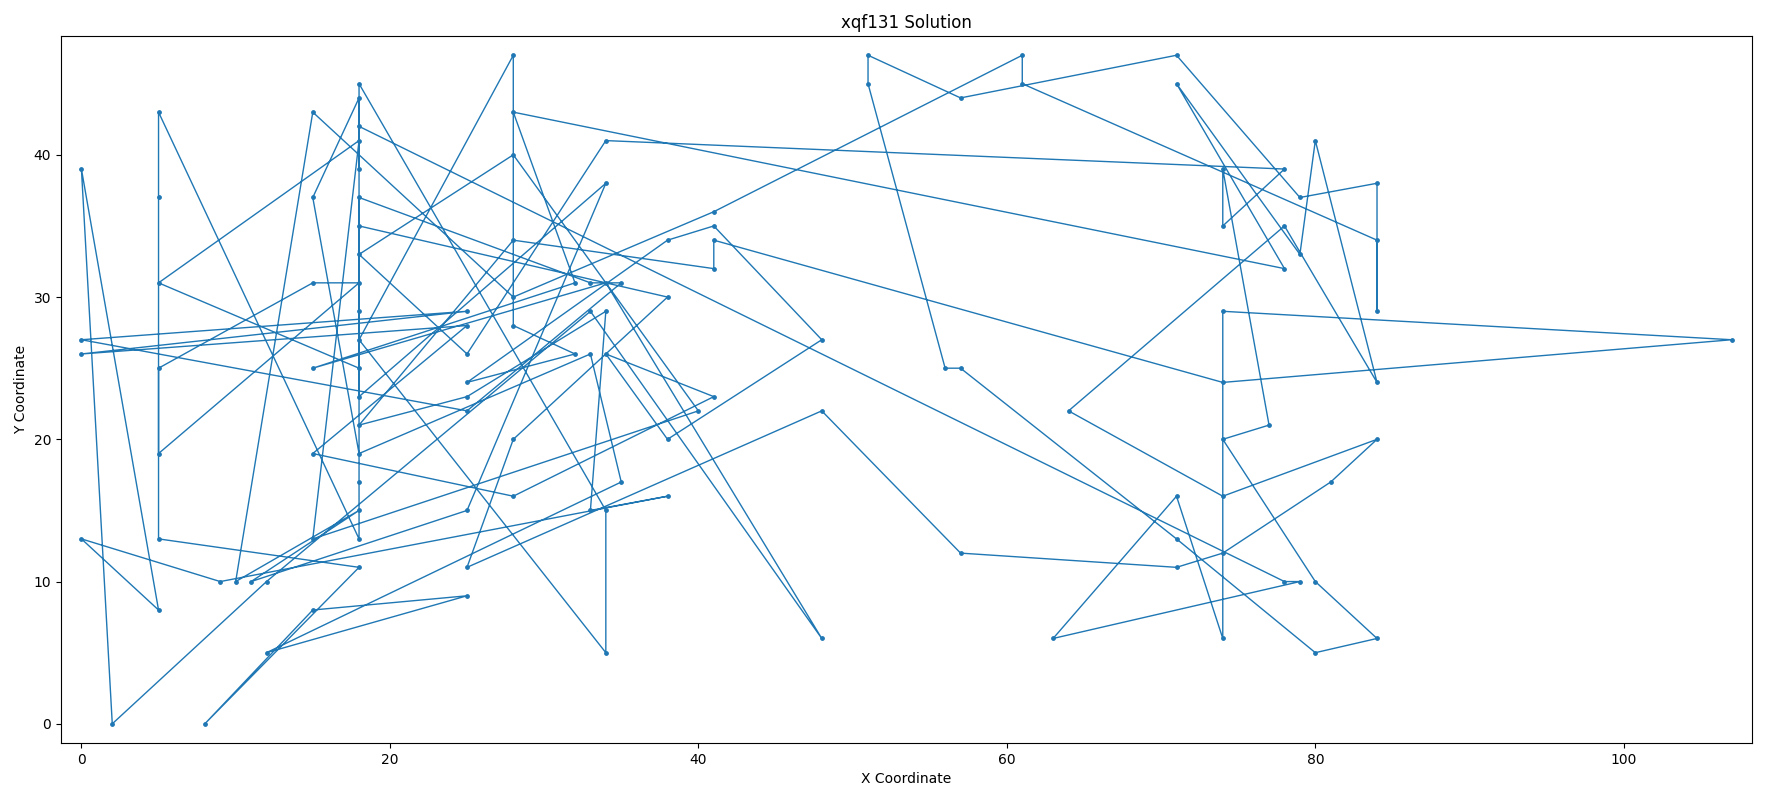
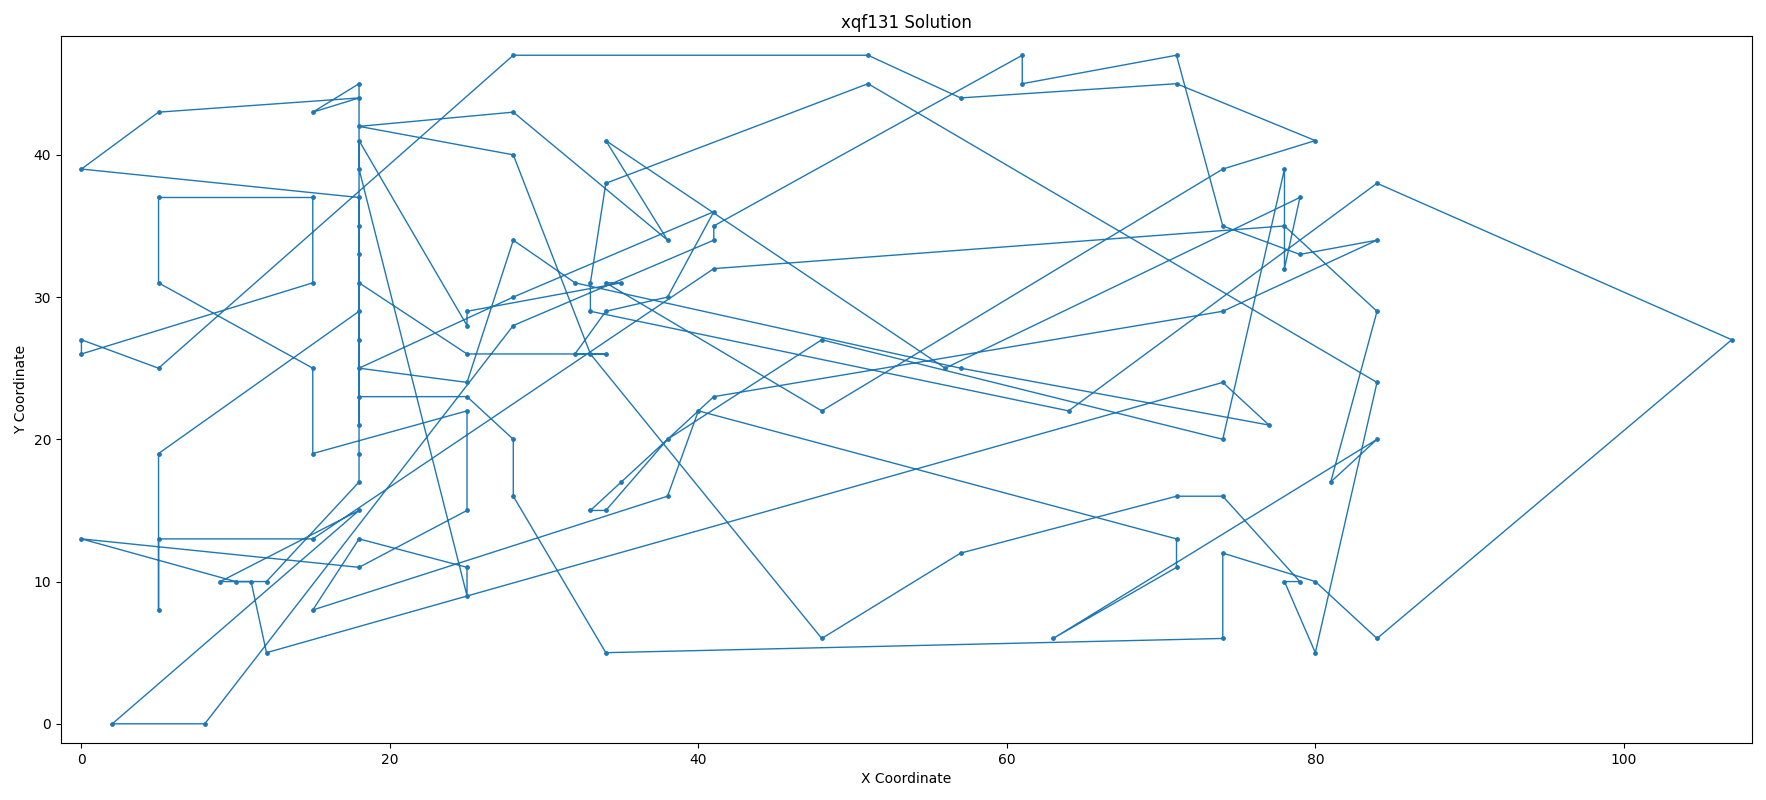
experiment 5: 12, 2103, 8584, 900, 1626

diff --git a/src/driver.py b/src/driver.py
@@ -46,14 +46,14 @@ def main():
     run_genetic_experiment(             # Default values
         problem_name,                   
         travel_graph_class=TravelGraphClassic,
-        population_size=1000,           # 1000
+        population_size=500,           # 1000
         generations=1000,               # 500
         elitism_factor=0.15,             # 0.15
         elitism_factor_change=None,       # None
         diversity_factor=0.15,           # 0.15
         diversity_factor_change=None,   # None
-        crossover_factor=0.1,           # 0.1
-        crossover_factor_change=-0.009/100, # None
+        crossover_factor=0.03,           # 0.1
+        crossover_factor_change=None, # None
         p_mutation=0.01,                # 0.01
         p_mutation_change=None,         # None
         mutate_elite=True,              # True
